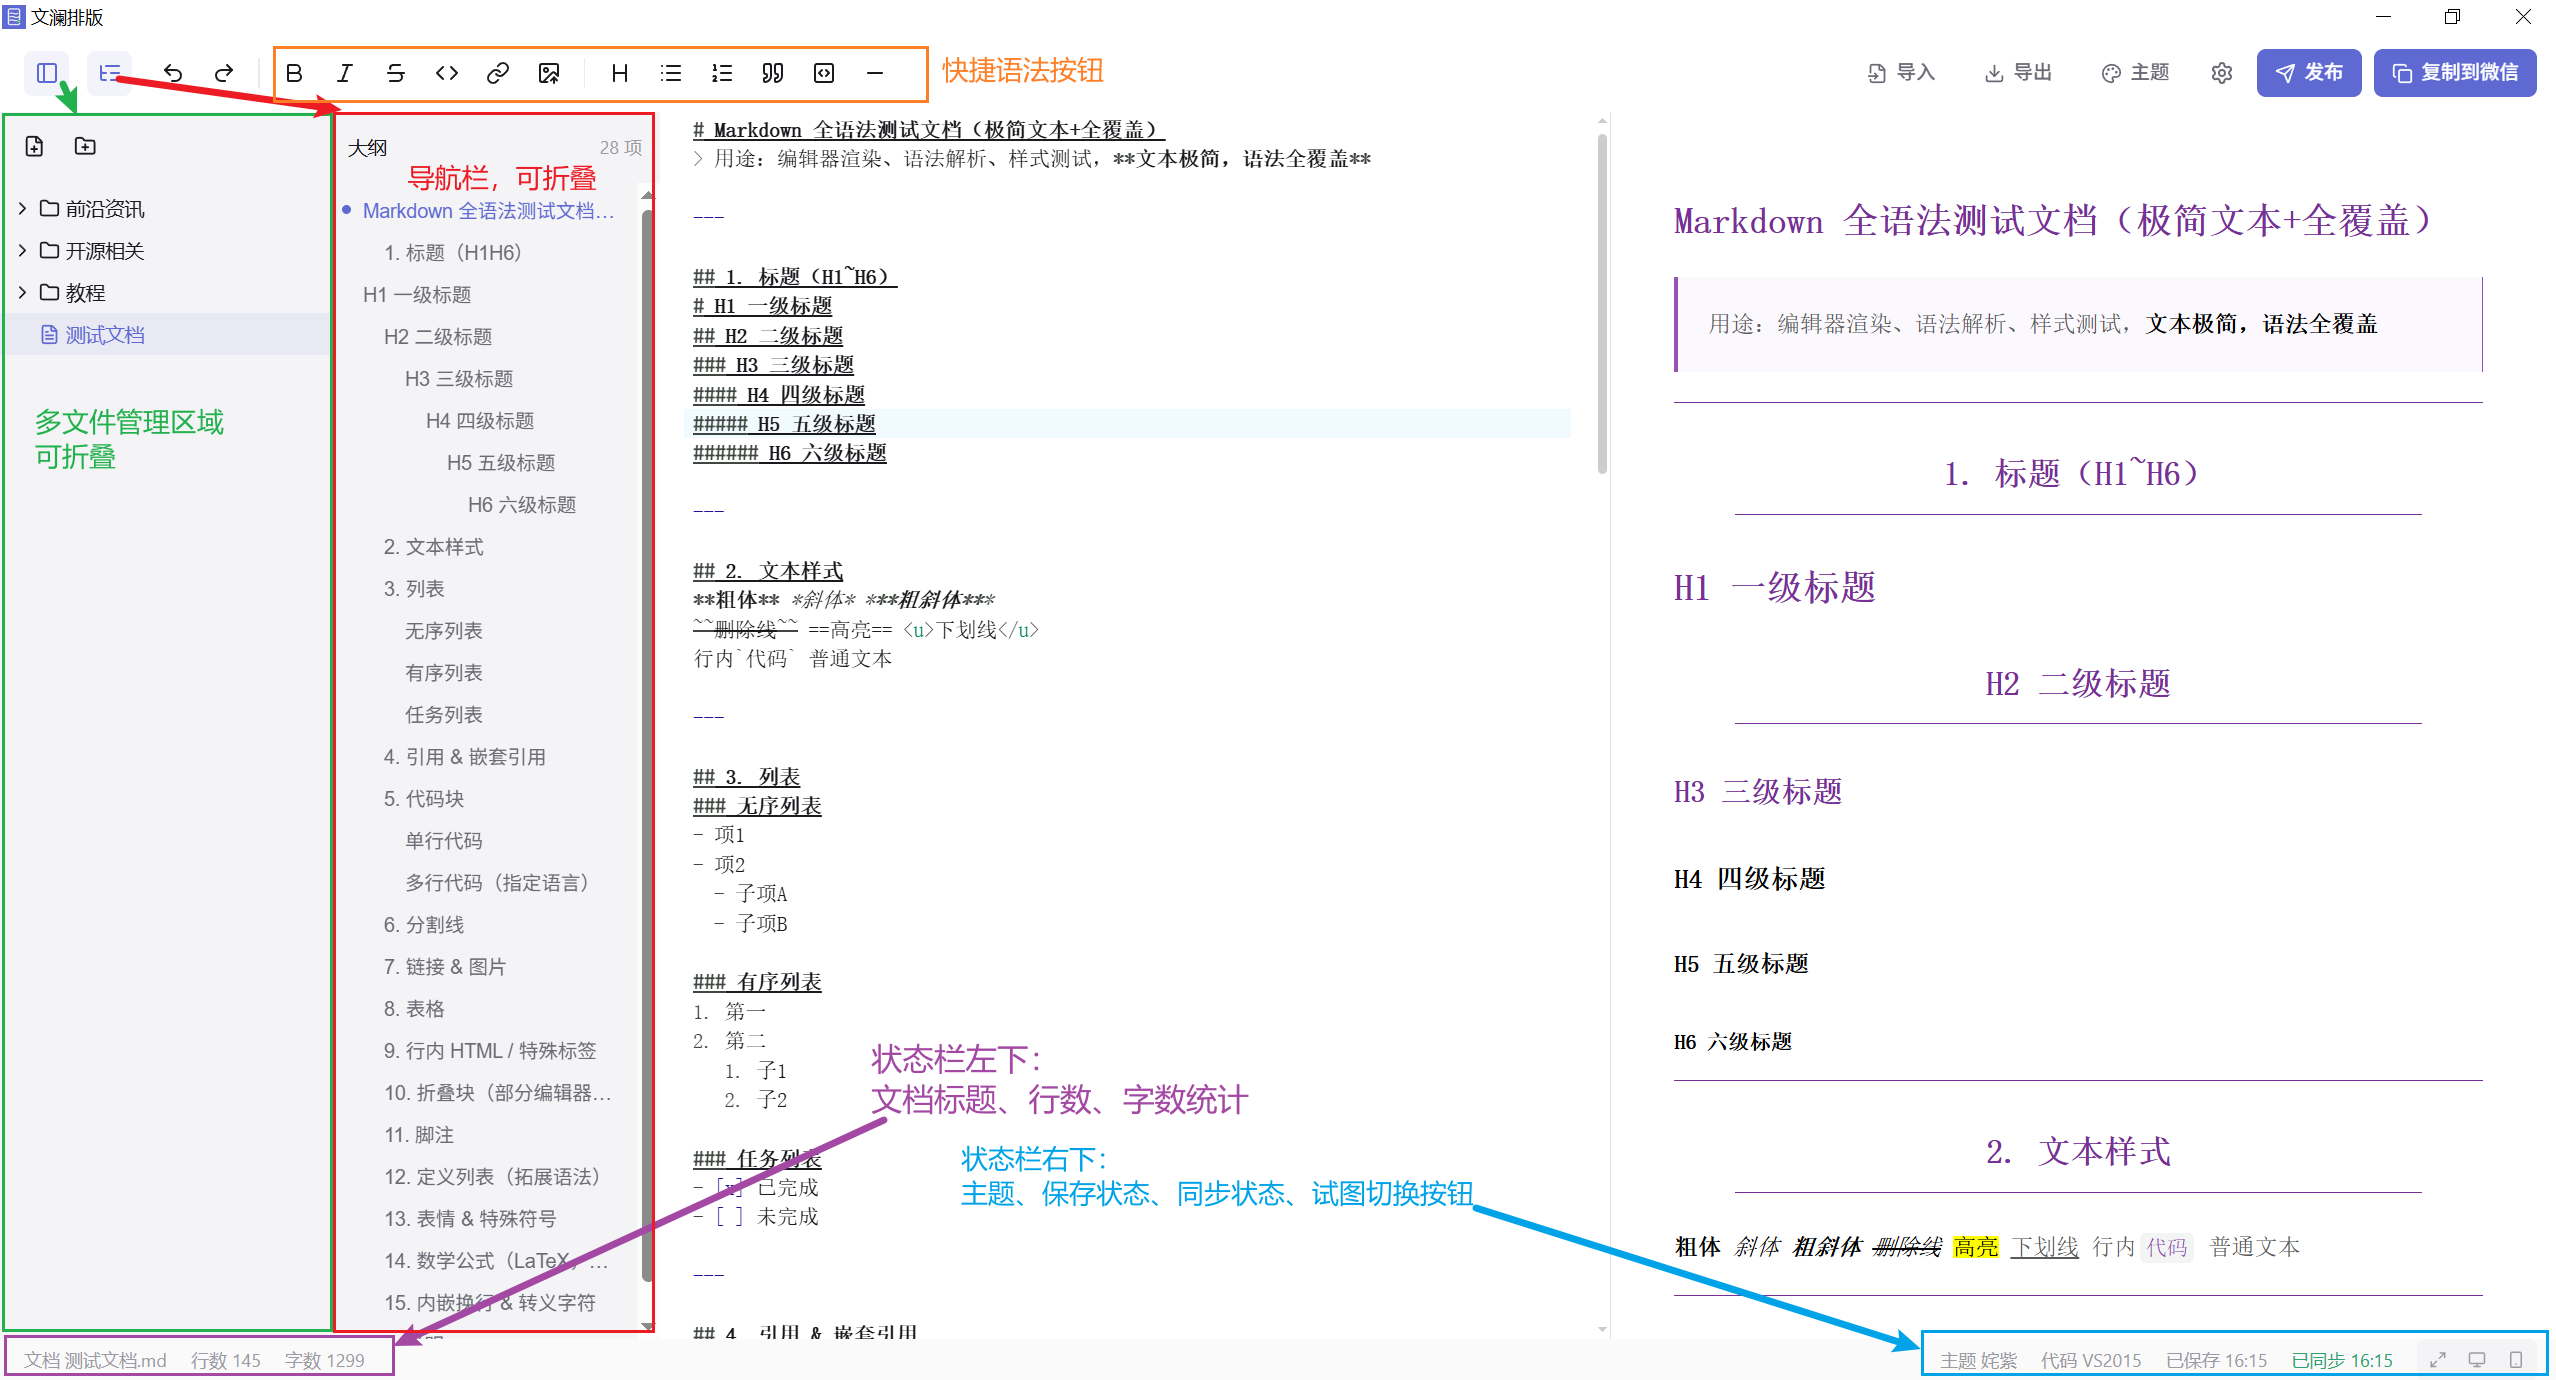
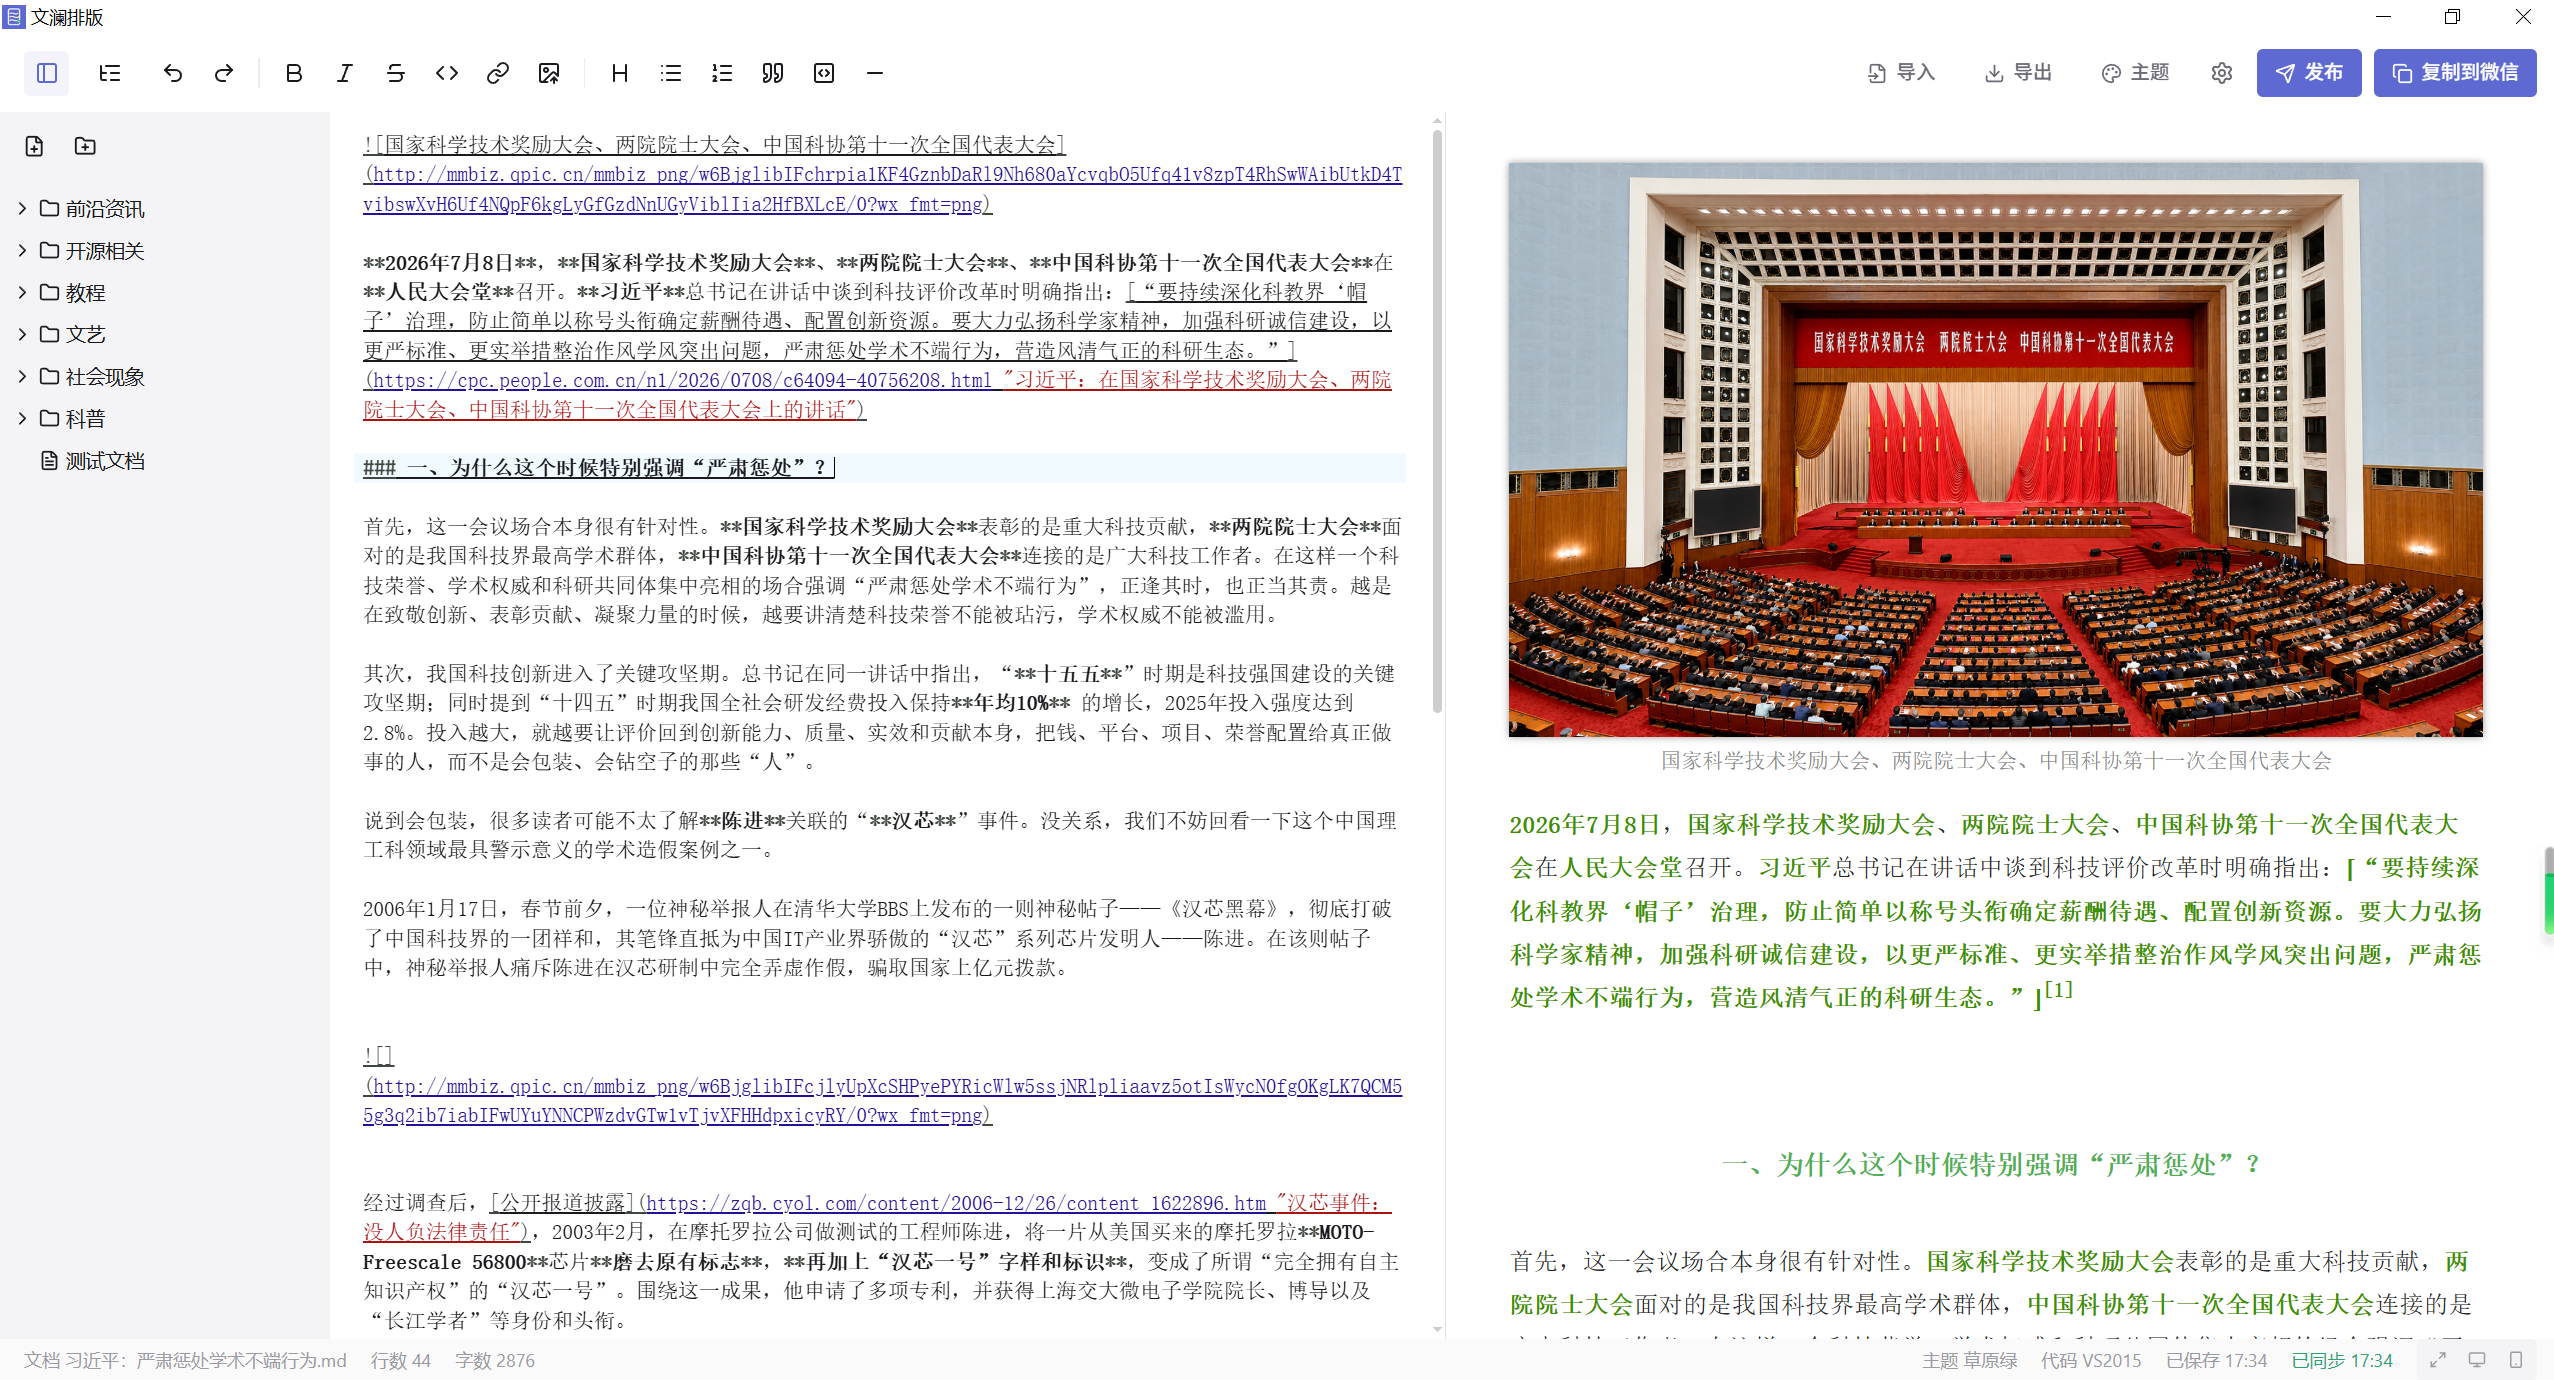
修改 readme 文档

diff --git a/README.md b/README.md
@@ -1,51 +1,60 @@
 # 文澜排版 VellumStyle
 
-本地优先的 Markdown 到微信公众号排版桌面工具。它把 Markdown 写作、公众号样式预览、微信兼容富文本复制、草稿箱发布、微信官方素材库上传、多文档管理、主题调整和文件云同步能力集成于一体，遂得此应用。
+本项目是用rust+tauri构建的桌面微信公众号排版工具。本工具排版仅适用于Markdown成稿的稿件，因此使用本软件的朋友一般需要具备一定的Markdown语法基础。当然，道友能看到本文，相信你已经来到了Github，故不会Markdown是我多虑了。
 
 ![文澜排版主界面](assets/readme/hero.png)
 
-## 为什么做它
 
-微信公众号写作常见的痛点不是 Markdown 本身，而是最后一步：样式要能粘贴进微信编辑器，图片要稳定，封面和正文素材要进入微信官方素材库，长文还要能导出和归档。
 
-文澜排版希望把这条链路做成一个本地应用：文章留在本机，凭证留在本机，最后生成微信编辑器能识别的 HTML，或者直接写入公众号草稿箱。
+## 一、软件覆盖的功能（跟随提交实时更新）
 
-## 核心能力
+1. 基本功能：
 
-- **实时编辑与预览**：左侧 CodeMirror 编辑 Markdown，右侧实时渲染公众号文章效果。
+   实时编辑与预览，左侧编辑Markdown，右侧根据**选定的主题**实时渲染排版效果。编辑器支持部分常用Markdown语法占位符的快速插入，不过目前只能手动触发，还没有设置快捷键。
 
-- **复制到微信**与**直接发布到草稿箱**：把预览 DOM 转成微信编辑器友好的 `text/html`，并用 `juice` 内联 CSS，复制到剪贴板后可以直接在微信公众号官方编辑页粘贴即可恢复样式；上传封面图，校验正文图片，调用微信公众号草稿箱接口生成草稿放到微信公众号平台的草稿箱，非常方便。
+2. ⭐”发布“功能⭐：
 
-  ![复制与发布到公众号](assets/readme/copy-and-publish.png)
+   - 复制到微信：软件将渲染后的html代码写入剪贴板，使得用户在公众号网页端文章编辑区粘贴后能够保留在软件内看到的样式效果。
 
-- **微信官方素材库**：应用编辑文档时候上传的图片，均使用微信公众号永久素材库作为图床（微信官方图床）上传，直接避免了使用第三方图床带来的图床跑路，图片链接失效毁掉文章的风险。
+   - 发布到草稿箱：用户可以直接在软件内，上传封面图，填写标题、作者，调整评论功能后，调用微信公众号草稿箱接口生成将文章放到微信公众号平台的草稿箱，非常方便。
 
-- **多文档管理**与**文件同步**：应用数据目录中维护真实 `.md` 文件树，支持新建、重命名、删除、移动和自动保存等功能；同时，为了满足多设备使用，应用使用坚果云免费的 WebDAV服务，把本机 `documents/` 下的 Markdown 文档同步到云端目录。
+     封面图片可以用两种方式确定：①从本地上传，图片会上传到公众号永久素材库，然后返回mediaID；②直接用自己公众号永久素材库选择，如果需要用你已经上传过的图片，那么这一种方式将会非常方便。
 
-  ![多文档管理与文件同步](assets/readme/documents-and-sync.png)
+     ![复制与发布到公众号](assets/copy-and-publish.png)
 
-- **主题系统**：内置 40+ 排版主题和 250+ Highlight.js/Base16 代码主题，支持搜索、分页、收藏和置顶。
+3. ⭐图片上传使用微信官方图床⭐：
 
-  ![主题系统](assets/readme/theme-gallery.png)
+   软件目前支持三种图片处理方式，①Ctrl+V粘贴；②通过快捷语法按钮上传本地图片；③导入Markdown文档时，自动解析并处理原始图片。不管是哪一种，最终图片都会经软件调用软件后端上传服务，上传到自己公众号的永久素材库。
 
-- **导出**：支持 PNG 长图、独立 HTML、A4 PDF、Markdown 原文。
+   图片上传后，文章图片的地址会被替换为微信永久素材库的官方链接。此般，解决了图床跑路导致文章图片失效的问题。
 
-- **增强 Markdown**：支持 Mermaid、MathJax、`==高亮==`、链接脚注、`[toc]`、ruby 注音、图片尺寸语法等。
+4. ⭐文章管理与云同步⭐：
 
-## 适合谁
+   - 文章管理：在本地用户目录，针对本软件会创建一个目录用于存档我们写过的文章。如下图左图所示，文章是树形管理的，也就是说你可以像在使用windows文件管理一样在软件内创建文件夹或者Markdown文件。此外，所有文章，文件夹可以拖动管理，方便快速分类整理。
 
-- 经常用 Markdown 写公众号文章的人。
-- 需要把文章图片上传到微信官方素材库的公众号运营者。
-- 想要本地保存文章、主题和凭证，不依赖在线排版服务的人。
-- 想研究 Markdown 到微信富文本转换、Tauri 桌面化、公众号草稿箱发布链路的开发者。
+      <img src="assets/image-20260711235322729.png" alt="image-20260711235322729" style="zoom:50%;" /><img src="assets/documents-and-sync.png" alt="多文档管理与文件同步" style="zoom:50%;" />  
 
-## 不适合谁
+   - 云同步：为了满足多设备使用，软件使用坚果云免费的 WebDAV服务，把文件管理目录下的文件树同步到云端目录。在B设备上安装本软件后，配置好坚果云账号信息，即可恢复A设备的所有文章。
 
-- 只需要一个在线 Markdown 预览器。
-- 不使用微信公众号编辑器，也不需要微信素材库或草稿箱能力。
-- 需要多人协同、云端账号体系、在线审批流的团队型 CMS。
+5. ⭐主题系统⭐：
 
-## 下载与安装
+   软件内置 40+ 排版主题和 250+ Highlight.js/Base16 代码主题，支持搜索、分页、收藏和置顶。
+
+   ![主题系统](assets/theme-gallery.png)
+
+6. 其他”也许“对你来说实用的小功能：
+
+   - Markdown文档导入：该功能区别于其他的编辑器逻辑——只上传文本，不做后处理，本软件上传过程中会单独处理所有的图片语法，不论你使用的是obisidian的"**![[]]**"语法，还是`<img url="xxx" alt="xxx">`的html标签语法，最终都会在图片上传后统一到`![imgDescription](imgUrl)`这样的Markdown图片插入标准语法。
+
+     软件为了保留文档在其他编辑器编辑时留下的图片缩放等额外参数，对标准语法进行了轻度扩展，原始缩放会转换到`![imgDescription](imgUrl =缩放参数)`语法。
+
+   - 扩展语法解析支持：①支持Mermaid代码直接渲染为SVG图形，并确保粘贴/发布到草稿箱后能保留SVG图形；②支持标准的 `$行内公式$`和`$$行间公式$$`数学公式渲染；③支持”参考文献“功能，文章如果使用了 `[xxx](url "title")`超链接语法，渲染为 $\lceil \text{xxx}\rfloor ^{[\text{文献序号}]}$这种样式，并自动在文末插入一条 $[\text{文献序号}]\space \text{title：url}$这样的文献。
+
+   - 大纲导航：文档如果有标题语法，即 `# xxx`、 `## xxx`这种，左侧有可折叠导航栏，展开后可依据多级标题形成目录导航，方便长文定位。
+
+   - 文档导出：支持 PNG 长图、独立 HTML、A4 PDF、Markdown 原文导出。虽然但是，感觉这个功能没啥用。
+
+## 二、下载与安装
 
 如果仓库已经发布正式版本，优先从 GitHub Releases 下载系统对应安装包。
 